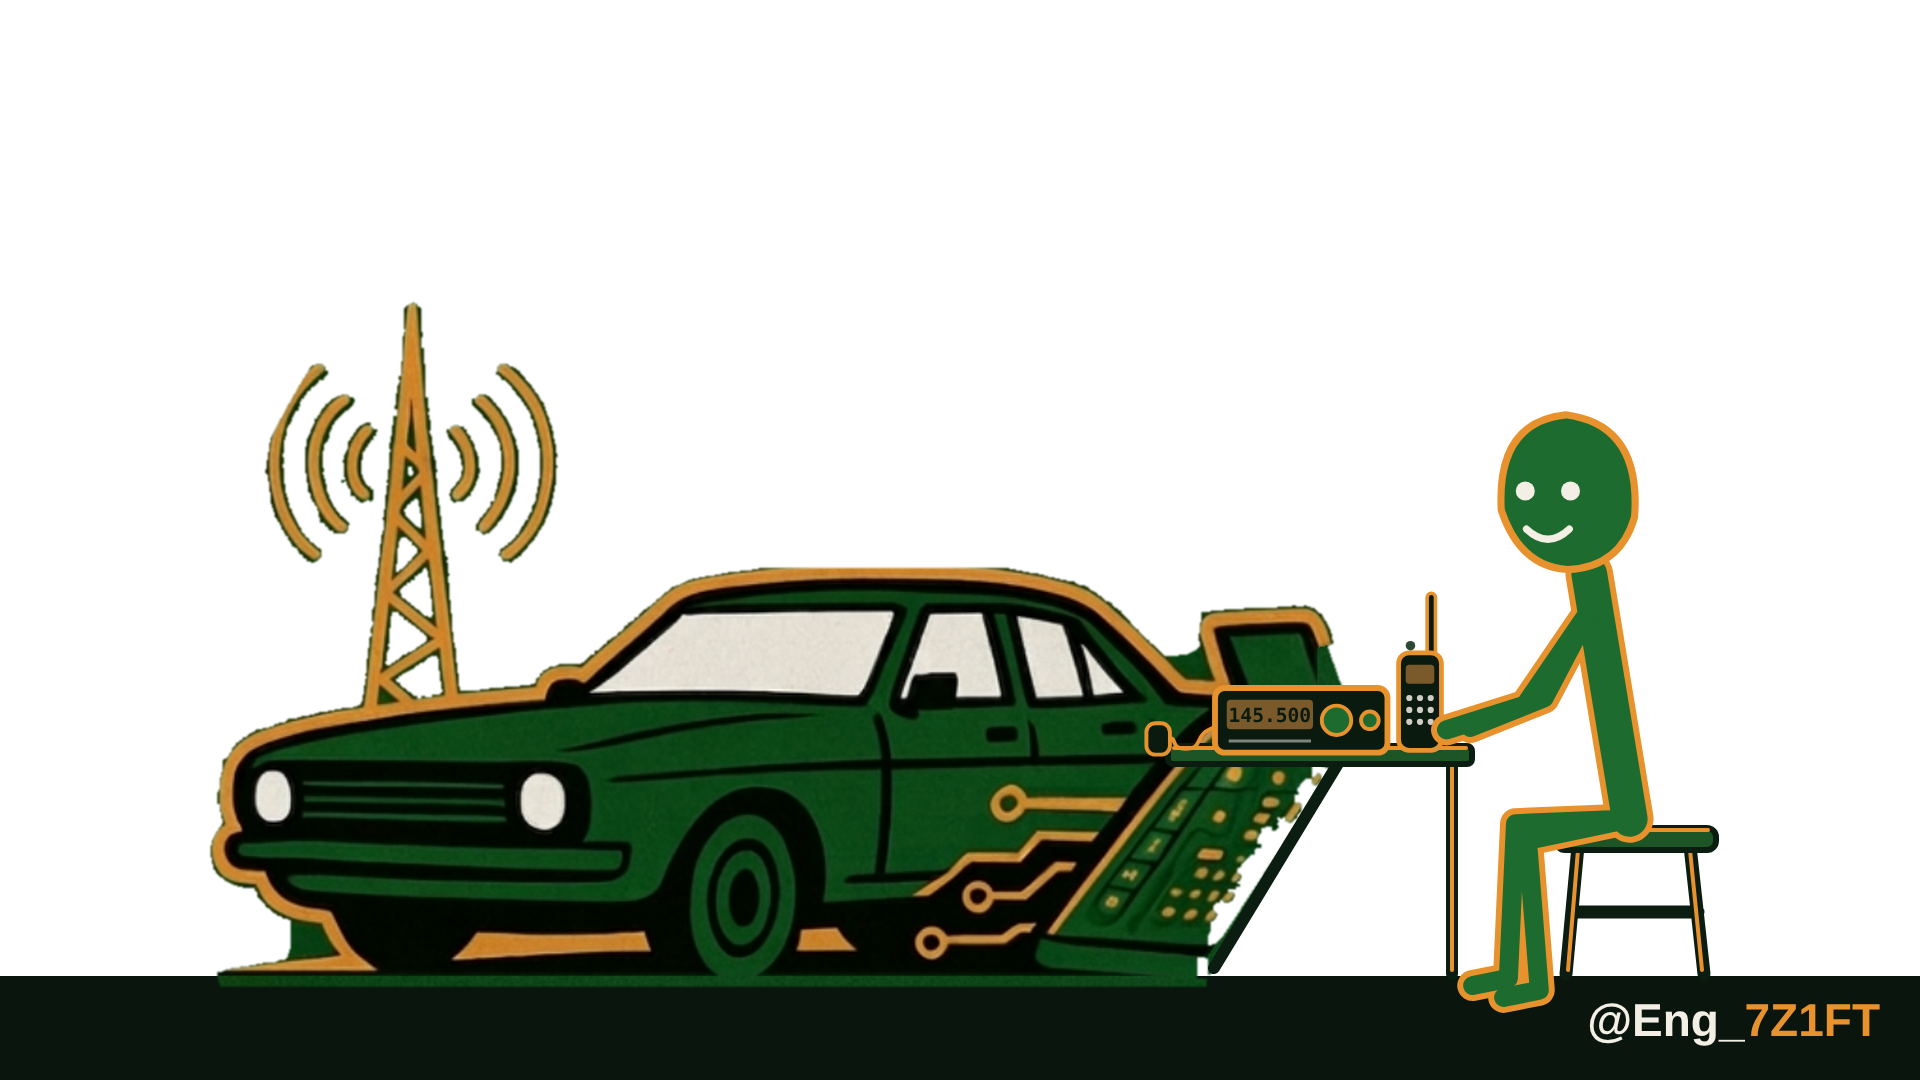
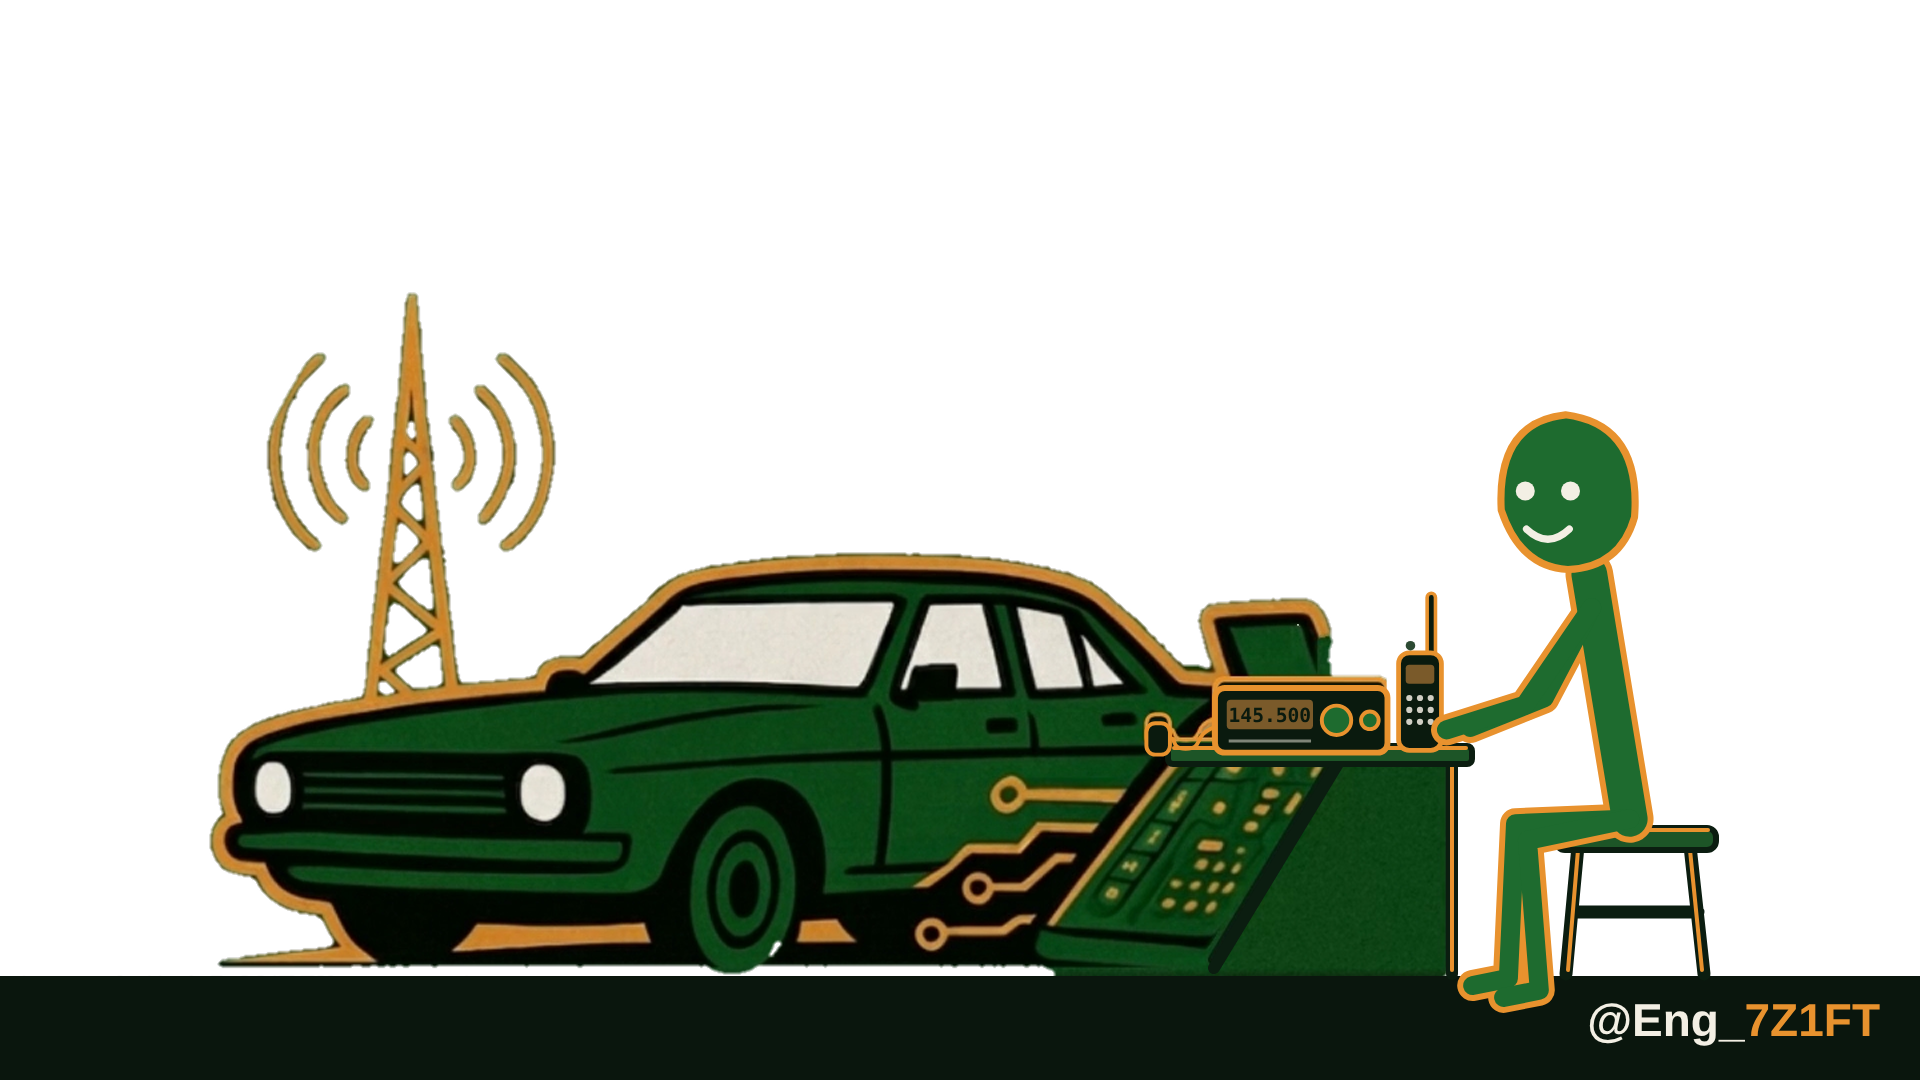
Use the user's approved transparent scene image as the scene layer
Claude-Session: https://claude.ai/code/session_01MNZc9ySQF9u7kcacVr9AHr

Changed region(s): [[0.0938, 0.3361, 0.75, 0.9167], [0.1875, 0.275, 0.2188, 0.3056]]

diff --git a/stickman/scene.js b/stickman/scene.js
@@ -169,8 +169,8 @@ function sceneFrame(name,t,m,blink){
   const prog=fx==='prog'?clamp((t-K.t)/3.4):/car/.test(fx)?1:0;
   const flash=fx==='car'?Math.max(0,Math.sin(t*9)):0;
   let s=`<defs><radialGradient id="glow"><stop offset="0" stop-color="#fff6d8" stop-opacity=".95"/><stop offset="1" stop-color="#fff6d8" stop-opacity="0"/></radialGradient></defs>
-  <rect y="${SC.FLOOR}" width="1920" height="${1080-SC.FLOOR}" fill="${SC.GROUND}"/><image href="${SC.BG}" x="0" y="0" width="1920" height="1080"/>`
-    +logoFx(t,{boost:fx==='tower'?1:tx?.5:0,flash,link:linkOn||tx})+beeps(t,fx==='car')+logoFurniture();
+  <image href="${SC.BG}" x="0" y="0" width="1920" height="1080"/><rect y="${SC.FLOOR}" width="1920" height="${1080-SC.FLOOR}" fill="${SC.GROUND}"/>`
+    +logoFx(t,{boost:0,flash,link:linkOn})+beeps(t,fx==='car')+logoFurniture();
   if(script.items.includes('radio'))s+=`<g transform="translate(1215,688) scale(.98)">${baseRadio(t,tx||fx==='tower').replace('translate(1262,620)','translate(0,0)')}</g>`;
   const held=K.hold||null,hand=P.arms[1][2];
   for(const it of script.items){if(it===held)continue;const [ix,iy]=DESK_SPOT[it];
